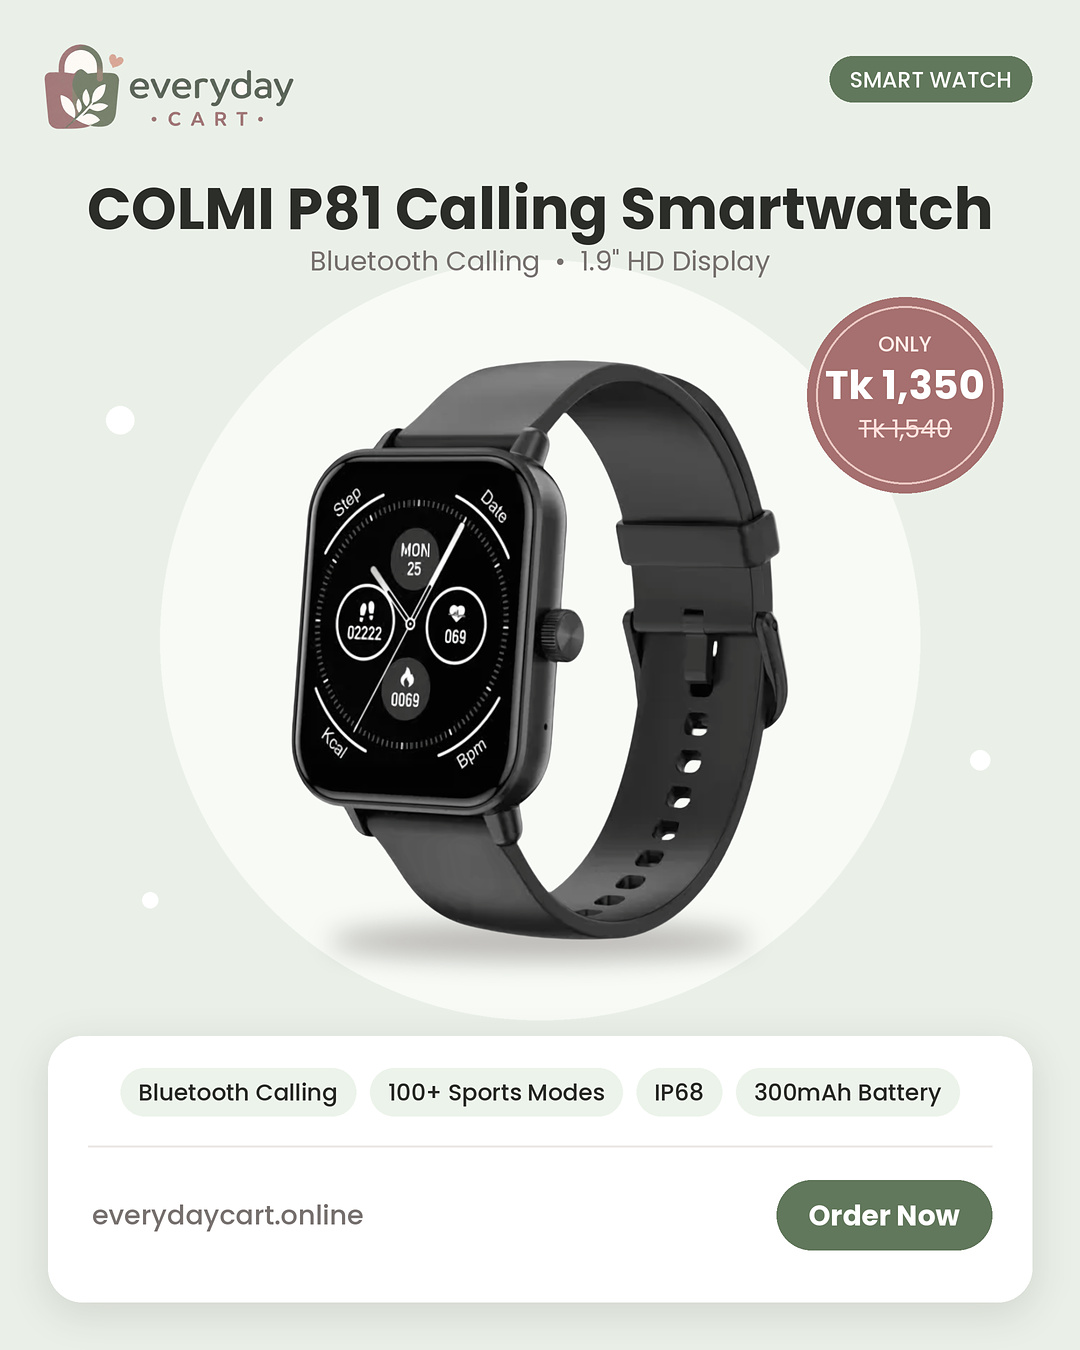
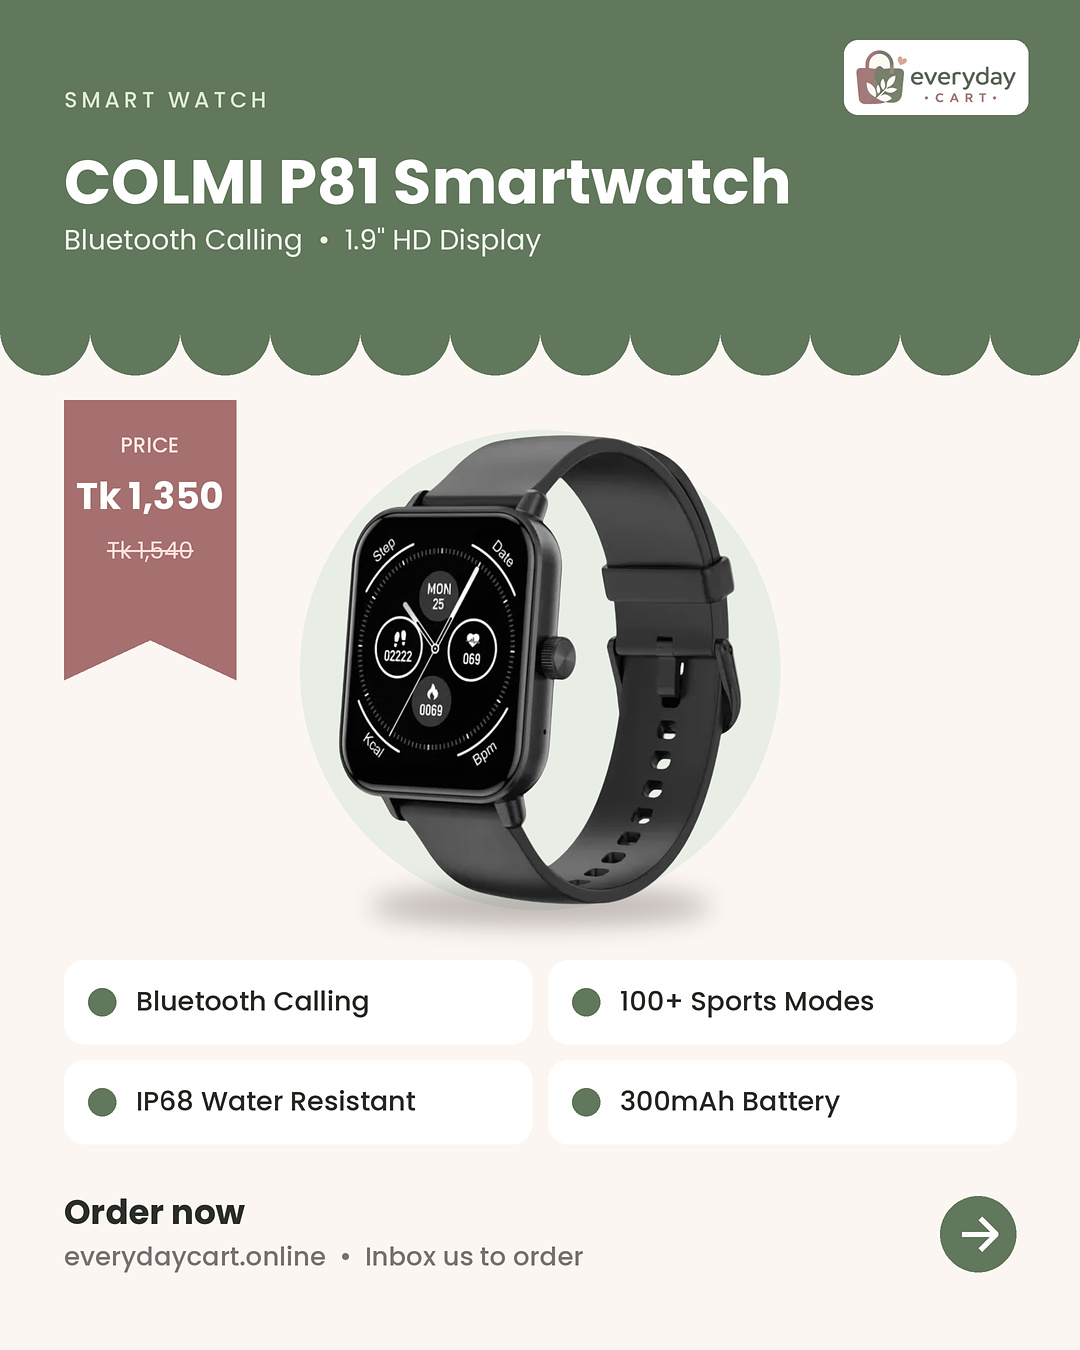
Redesign 2 Nov batch with new style set (arch poster, scalloped header, list menu); add daily style rotation log
Claude-Session: https://claude.ai/code/session_0114xmdKWWLipJqKWxq3u9Ky

diff --git a/tools/render_styles.py b/tools/render_styles.py
@@ -1,0 +1,158 @@
+"""Extra flat post styles so each day's batch looks different (no 3D, small corner logo, brand palette, Poppins).
+
+Style sets (rotate daily, see posts/style_log.json):
+  set 1 = render_flat A/B/C (split panel, colour card, collection grid)
+  set 2 = D/E/F below (arch poster, header ribbon, list menu)
+"""
+import os
+from PIL import Image, ImageDraw
+import render_flat as rf
+from render_flat import P, f, fit, wrap, tk, S, W, H, W0, H0, SAGE, SAGE_L, ROSE, INK, MUTE, CREAM, load_logo
+
+ROSE_D = (138, 88, 88)
+
+
+def spaced(d, xy, text, font, fill, spacing=3):
+    x, y = xy
+    for ch in text:
+        d.text(P(x, y), ch, font=font, fill=fill); x += d.textlength(ch, font=font) / S + spacing
+    return x
+
+
+def spaced_w(d, text, font, spacing=3):
+    return sum(d.textlength(ch, font=font) / S + spacing for ch in text) - spacing
+
+
+def strike(d, x, y, text, font, fill):
+    w = d.textlength(text, font=font) / S
+    d.text(P(x, y), text, font=font, fill=fill)
+    d.line(P(x, y + font.size / S * 0.72, x + w, y + font.size / S * 0.72), fill=fill, width=2 * S)
+    return w
+
+
+# ---------------- Template D: arch poster ----------------
+def template_d(p):
+    bg = p.get("bg", (226, 234, 222)); arch = p.get("arch", CREAM)
+    img = Image.new("RGBA", (W, H), bg + (255,)); d = ImageDraw.Draw(img)
+    lg = load_logo(170); img.alpha_composite(lg, (52 * S, 46 * S)); d = ImageDraw.Draw(img)
+    tf = f("Poppins-Medium.ttf", 21); tw = spaced_w(d, p["tag"], tf, 4)
+    spaced(d, (W0 - 56 - tw, 66), p["tag"], tf, p.get("ink", SAGE), 4)
+    # arch window
+    x0, x1, y0, y1 = 150, 930, 150, 930; r = (x1 - x0) / 2
+    d.rounded_rectangle(P(x0, y0 + r, x1, y1), radius=0, fill=arch)
+    d.pieslice(P(x0, y0, x1, y0 + 2 * r), 180, 360, fill=arch)
+    d.arc(P(x0 - 22, y0 - 22, x1 + 22, y0 + 2 * r + 22), 180, 360, fill=arch, width=3 * S)
+    d.line(P(x0 - 22, y0 + r, x0 - 22, y1), fill=arch, width=3 * S); d.line(P(x1 + 22, y0 + r, x1 + 22, y1), fill=arch, width=3 * S)
+    img = rf.place(img, p["img"], 540, 575, p.get("maxw", 600), p.get("maxh", 560)); d = ImageDraw.Draw(img)
+    # price tag hanging on the arch edge
+    pr = tk(p["price"]); pf = f("Poppins-Bold.ttf", 46); pw = d.textlength(pr, font=pf) / S
+    has_old = p["regular"] > p["price"]
+    bx1 = x1 + 10; bx0 = bx1 - pw - 56; by0 = 830
+    d.rounded_rectangle(P(bx0, by0, bx1, by0 + (118 if has_old else 86)), radius=18 * S, fill=ROSE)
+    d.text(P(bx0 + 28, by0 + 12), pr, font=pf, fill="white")
+    if p.get("label"):
+        lf = f("Poppins-Bold.ttf", 22); lt = p["label"]; lw_ = d.textlength(lt, font=lf) / S
+        d.rounded_rectangle(P(bx0, by0 - 40, bx0 + lw_ + 32, by0 - 4), radius=18 * S, fill=INK)
+        d.text(P(bx0 + 16, by0 - 37), lt, font=lf, fill="white")
+    if has_old:
+        of = f("Poppins-Regular.ttf", 24); o = tk(p["regular"]); ow = d.textlength(o, font=of) / S
+        strike(d, bx0 + 28, by0 + 76, o, of, (255, 222, 218))
+    # title block
+    ft, lines = wrap(d, p["title"], "Poppins-Bold.ttf", 56, 920, 2)
+    y = 985
+    for l in lines:
+        lw_ = d.textlength(l, font=ft) / S; d.text(P(540 - lw_ / 2, y), l, font=ft, fill=INK); y += ft.size / S * 1.12
+    feats = "  •  ".join(p["feats"])
+    ff = fit(d, feats, "Poppins-Regular.ttf", 26, 960); fw = d.textlength(feats, font=ff) / S
+    d.text(P(540 - fw / 2, y + 12), feats, font=ff, fill=MUTE)
+    # footer
+    d.line(P(80, 1218, 1000, 1218), fill=p.get("rule", (200, 210, 196)), width=2 * S)
+    uf = f("Poppins-Medium.ttf", 26); d.text(P(80, 1250), "everydaycart.online", font=uf, fill=INK)
+    bf = f("Poppins-Bold.ttf", 25); bt = "Inbox to order"; bw = d.textlength(bt, font=bf) / S
+    d.rounded_rectangle(P(1000 - bw - 56, 1240, 1000, 1298), radius=29 * S, fill=SAGE)
+    d.text(P(1000 - bw - 28, 1252), bt, font=bf, fill="white")
+    return rf.finish(img, p["out"])
+
+
+# ---------------- Template E: header ribbon + feature tiles ----------------
+def template_e(p):
+    hd = p.get("head", SAGE); bg = p.get("bg", CREAM); tile = p.get("tile", (255, 255, 255))
+    img = Image.new("RGBA", (W, H), bg + (255,)); d = ImageDraw.Draw(img)
+    d.rectangle(P(0, 0, W0, 330), fill=hd)
+    # scalloped bottom edge of the header (flat semicircles)
+    for i in range(12):
+        cx = 45 + i * 90; d.ellipse(P(cx - 45, 285, cx + 45, 375), fill=hd)
+    lg = load_logo(160)
+    d.rounded_rectangle(P(W0 - 52 - lg.width / S - 24, 40, W0 - 52, 40 + lg.height / S + 20), radius=14 * S, fill=(255, 255, 255))
+    img.alpha_composite(lg, (int((W0 - 64 - lg.width / S) * S), 50 * S)); d = ImageDraw.Draw(img)
+    tf = f("Poppins-Medium.ttf", 22); spaced(d, (64, 84), p["tag"], tf, SAGE_L if hd == SAGE else (255, 236, 232), 4)
+    ft = fit(d, p["title"], "Poppins-Bold.ttf", 62, 740); lines = [p["title"]]
+    if ft.size / S < 48: ft, lines = wrap(d, p["title"], "Poppins-Bold.ttf", 50, 740, 2)
+    y = 138 if len(lines) == 1 else 112
+    for l in lines: d.text(P(64, y), l, font=ft, fill="white"); y += ft.size / S * 1.1
+    sf = fit(d, p["sub"], "Poppins-Regular.ttf", 28, 900); d.text(P(64, y + 14), p["sub"], font=sf, fill=(236, 240, 232))
+    # product zone
+    acc = p.get("accent", (238, 232, 228))
+    d.rounded_rectangle(P(300, 430, 780, 910), radius=240 * S, fill=acc)
+    img = rf.place(img, p["img"], 540, 670, p.get("maxw", 560), p.get("maxh", 500)); d = ImageDraw.Draw(img)
+    # vertical price ribbon on the left
+    has_old = p["regular"] > p["price"]
+    d.rectangle(P(64, 400, 236, 640), fill=ROSE)
+    d.polygon([P(64, 640), P(150, 600), P(236, 640), P(236, 680), P(150, 640), P(64, 680)], fill=ROSE)
+    lf = f("Poppins-Medium.ttf", 21); lt = p.get("label", "PRICE"); lw_ = d.textlength(lt, font=lf) / S
+    d.text(P(150 - lw_ / 2, 430), lt, font=lf, fill=(255, 228, 224))
+    pf = fit(d, tk(p["price"]), "Poppins-Bold.ttf", 40, 150); pw = d.textlength(tk(p["price"]), font=pf) / S
+    d.text(P(150 - pw / 2, 470), tk(p["price"]), font=pf, fill="white")
+    if has_old:
+        of = f("Poppins-Regular.ttf", 23); o = tk(p["regular"]); ow = d.textlength(o, font=of) / S
+        strike(d, 150 - ow / 2, 534, o, of, (255, 222, 218))
+    # 2x2 feature tiles
+    for i, t in enumerate(p["feats"][:4]):
+        cx0 = 64 + (i % 2) * 484; cy0 = 960 + (i // 2) * 100
+        d.rounded_rectangle(P(cx0, cy0, cx0 + 468, cy0 + 84), radius=20 * S, fill=tile)
+        d.ellipse(P(cx0 + 24, cy0 + 28, cx0 + 52, cy0 + 56), fill=hd)
+        tf2 = fit(d, t, "Poppins-Medium.ttf", 27, 370); d.text(P(cx0 + 72, cy0 + 22), t, font=tf2, fill=INK)
+    d.text(P(64, 1188), "Order now", font=f("Poppins-Bold.ttf", 34), fill=INK)
+    uf = f("Poppins-Medium.ttf", 26); d.text(P(64, 1238), "everydaycart.online  •  Inbox us to order", font=uf, fill=MUTE)
+    d.ellipse(P(940, 1196, 1016, 1272), fill=hd)
+    d.line([P(962, 1234), P(994, 1234)], fill="white", width=5 * S)
+    d.line([P(980, 1218), P(996, 1234), P(980, 1250)], fill="white", width=5 * S, joint="curve")
+    return rf.finish(img, p["out"])
+
+
+# ---------------- Template F: list menu (collection) ----------------
+def template_f(p):
+    bg = p.get("bg", (244, 236, 232))
+    img = Image.new("RGBA", (W, H), bg + (255,)); d = ImageDraw.Draw(img)
+    lg = load_logo(170); img.alpha_composite(lg, (52 * S, 46 * S)); d = ImageDraw.Draw(img)
+    tf = f("Poppins-Medium.ttf", 21); tw = spaced_w(d, p["tag"], tf, 4)
+    spaced(d, (W0 - 56 - tw, 66), p["tag"], tf, ROSE, 4)
+    ft = fit(d, p["title"], "Poppins-Bold.ttf", 62, 960); d.text(P(60, 150), p["title"], font=ft, fill=INK)
+    sf = fit(d, p["sub"], "Poppins-Regular.ttf", 27, 960); d.text(P(60, 232), p["sub"], font=sf, fill=MUTE)
+    rh, gap, y = 196, 20, 296
+    for i, it in enumerate(p["items"]):
+        box = (60, y, 1020, y + rh)
+        img = rf.card_shadow(img, box, 28, alpha=26, blur=12, dy=6); d = ImageDraw.Draw(img)
+        d.rounded_rectangle(P(*box), radius=28 * S, fill="white")
+        acc = it.get("accent", (240, 234, 230))
+        d.rounded_rectangle(P(78, y + 18, 78 + 220, y + rh - 18), radius=22 * S, fill=acc)
+        img = rf.place(img, it["img"], 188, y + rh / 2, 190, 150, floor=False); d = ImageDraw.Draw(img)
+        d.text(P(330, y + 40), f"0{i + 1}", font=f("Poppins-Medium.ttf", 22), fill=ROSE)
+        nf = fit(d, it["name"], "Poppins-Bold.ttf", 34, 420); d.text(P(330, y + 70), it["name"], font=nf, fill=INK)
+        if it.get("note"):
+            d.text(P(330, y + 120), it["note"], font=fit(d, it["note"], "Poppins-Regular.ttf", 23, 420), fill=MUTE)
+        pf = f("Poppins-Bold.ttf", 38); pt = tk(it["price"]); pw = d.textlength(pt, font=pf) / S
+        d.text(P(992 - pw, y + 56), pt, font=pf, fill=ROSE)
+        if it["regular"] > it["price"]:
+            of = f("Poppins-Regular.ttf", 23); o = tk(it["regular"]); ow = d.textlength(o, font=of) / S
+            strike(d, 992 - ow, y + 112, o, of, MUTE)
+        y += rh + gap
+    d.rounded_rectangle(P(60, 1196, 1020, 1300), radius=52 * S, fill=SAGE)
+    bf = f("Poppins-Bold.ttf", 31); bt = "Order at everydaycart.online"; bw = d.textlength(bt, font=bf) / S
+    d.text(P(540 - bw / 2, 1210), bt, font=bf, fill="white")
+    lf = f("Poppins-Medium.ttf", 22); lt = p.get("foot", "Limited stock  •  Inbox us to order"); lw_ = d.textlength(lt, font=lf) / S
+    d.text(P(540 - lw_ / 2, 1256), lt, font=lf, fill=SAGE_L)
+    return rf.finish(img, p["out"])
+
+
+TEMPLATES = {"A": rf.template_a, "B": rf.template_b, "C": rf.template_c, "D": template_d, "E": template_e, "F": template_f}

diff --git a/tools/batch_2026_11_02.py b/tools/batch_2026_11_02.py
@@ -1,38 +1,38 @@
-"""Everyday Cart daily batch, 2 Nov 2026 (render_flat templates)."""
+"""Everyday Cart daily batch, 2 Nov 2026. Style set 2 (D arch poster, E header ribbon, F list menu)."""
 import os, sys
 import render_flat as rf
-from render_flat import template_a, template_b, template_c, im, HQ
+from render_flat import im, HQ
+from render_styles import TEMPLATES
 rf.OUTDIR = os.path.abspath(os.path.join(os.path.dirname(__file__), "..", "posts", "batch-2026-11-02")) + "/"
 os.makedirs(rf.OUTDIR, exist_ok=True)
 
 POSTS = [
-    ("A", dict(out="01_oraimo_spacebox_speaker", img=HQ + "01.png", tag="SPEAKER", title="Oraimo SpaceBox Speaker",
-               sub="Official  •  Portable Bluetooth", feats=["Personalized Light Show", "Thumping Bass", "8W Audio Output", "1800mAh Battery"],
-               price=1841, regular=2299, accent=(230, 236, 242))),
-    ("B", dict(out="02_colmi_p81_smartwatch", img=HQ + "09.png", tag="SMART WATCH", title="COLMI P81 Calling Smartwatch",
-               sub="Bluetooth Calling  •  1.9\" HD Display", feats=["Bluetooth Calling", "100+ Sports Modes", "IP68", "300mAh Battery"],
-               price=1350, regular=1540, bg=(234, 240, 232), circle=(247, 250, 245), chip=(236, 243, 234), maxw=520, maxh=580)),
-    ("C", dict(out="03_earbuds_neckband_lineup", tag="AUDIO", title="Earbuds & Neckband Lineup", sub="Official Awei & Oraimo  •  Best prices in Dhaka",
-               items=[dict(img=HQ + "11.png", name="Awei T88 Earbuds", price=990, regular=1450),
-                      dict(img=HQ + "10.png", name="Awei T108 Earbuds", price=950, regular=1199),
-                      dict(img=HQ + "13.png", name="Oraimo SpaceBuds Lite", price=1310, regular=1496),
-                      dict(img=HQ + "04.png", name="Oraimo Necklace Lite", price=1300, regular=1485)],
-               accent=(236, 242, 233))),
-    ("A", dict(out="04_22in_big_teddy_bear", img=HQ + "06.png", tag="GIFT", title="22\" Big Teddy Bear",
-               sub="Super Soft Premium Plush", feats=["22 Inch Big Size", "Super Soft Plush", "Perfect Gift", "Cute Room Decor"],
-               price=1150, regular=2000, accent=(246, 230, 232))),
-    ("B", dict(out="05_awei_ka5_speaker", img=HQ + "14.png", tag="SPEAKER", title="Awei KA5 20W Speaker",
-               sub="Stereo Sound  •  IPX5 Waterproof", feats=["10W x 2 Output", "Bluetooth 5.3", "Up to 8 Hrs Play", "IPX5"],
-               price=2525, regular=2849, bg=(244, 240, 226), circle=(252, 250, 242), chip=(246, 242, 230), maxw=420, maxh=600, badge=(880, 400))),
-    ("A", dict(out="06_forkan_trolley_luggage", img=HQ + "05.png", tag="TRAVEL", title="Forkan Trolley Luggage",
-               sub="Hard Shell  •  20\" & 24\" Sizes", feats=["Durable Hard Shell", "360° Spinner Wheels", "Spacious Interior", "Lightweight"],
-               label="FROM", price=4000, regular=5500, accent=(246, 230, 228))),
-    ("B", dict(out="07_silent_alarm_clock", img=HQ + "07.png", tag="HOME", title="Silent Alarm Clock",
+    ("D", dict(out="01_oraimo_spacebox_speaker", img=HQ + "01.png", tag="SPEAKER", title="Oraimo SpaceBox Speaker",
+               feats=["Light Show", "Thumping Bass", "8W Output", "1800mAh"], price=1841, regular=2299,
+               bg=(226, 232, 238), rule=(196, 206, 216), maxw=640, maxh=420)),
+    ("E", dict(out="02_colmi_p81_smartwatch", img=HQ + "09.png", tag="SMART WATCH", title="COLMI P81 Smartwatch",
+               sub="Bluetooth Calling  •  1.9\" HD Display", feats=["Bluetooth Calling", "100+ Sports Modes", "IP68 Water Resistant", "300mAh Battery"],
+               price=1350, regular=1540, accent=(232, 238, 229), maxw=440, maxh=470)),
+    ("F", dict(out="03_earbuds_neckband_lineup", tag="AUDIO", title="Earbuds & Neckband Lineup", sub="Official Awei & Oraimo  •  Best prices in Dhaka",
+               items=[dict(img=HQ + "11.png", name="Awei T88 Earbuds", note="ANC Support  •  IPX6", price=990, regular=1450, accent=(236, 242, 233)),
+                      dict(img=HQ + "10.png", name="Awei T108 Earbuds", note="Wireless  •  Bluetooth", price=950, regular=1199, accent=(232, 238, 244)),
+                      dict(img=HQ + "13.png", name="Oraimo SpaceBuds Lite", note="Official Oraimo", price=1310, regular=1496, accent=(246, 236, 232)),
+                      dict(img=HQ + "04.png", name="Oraimo Necklace Lite", note="ENC Neckband", price=1300, regular=1485, accent=(240, 236, 246))])),
+    ("D", dict(out="04_22in_big_teddy_bear", img=HQ + "06.png", tag="GIFT IDEA", title="22\" Big Teddy Bear",
+               feats=["22 Inch", "Super Soft Plush", "Perfect Gift"], price=1150, regular=2000,
+               bg=(244, 226, 228), rule=(226, 200, 202), ink=ROSE if False else (165, 112, 111), maxw=560, maxh=580)),
+    ("E", dict(out="05_awei_ka5_speaker", img=HQ + "14.png", tag="SPEAKER", title="Awei KA5 20W Speaker",
+               sub="Stereo Sound  •  IPX5 Waterproof", feats=["10W x 2 Output", "Bluetooth 5.3", "Up to 8 Hrs Play", "IPX5 Waterproof"],
+               price=2525, regular=2849, head=(165, 112, 111), accent=(246, 240, 226), maxw=340, maxh=480)),
+    ("D", dict(out="06_forkan_trolley_luggage", img=HQ + "05.png", tag="TRAVEL", title="Forkan Trolley Luggage",
+               feats=["Hard Shell", "360° Wheels", "20\" & 24\""], price=4000, regular=5500, label="FROM",
+               bg=(222, 232, 222), rule=(196, 210, 194), maxw=420, maxh=600)),
+    ("E", dict(out="07_silent_alarm_clock", img=HQ + "07.png", tag="HOME", title="Silent Alarm Clock",
                sub="Non-Ticking  •  Quartz Movement", feats=["No Ticking Sound", "Precise Quartz", "Classic Twin Bell", "Bedside Decor"],
-               price=500, regular=800, bg=(242, 234, 226), circle=(251, 247, 242), chip=(245, 238, 231), maxw=520, maxh=580)),
-    ("B", dict(out="08_proove_intro_pro_earbuds", img=HQ + "03.png", tag="EARBUDS", title="Proove Intro Pro Earbuds",
-               sub="Official  •  LED Display Charging Case", feats=["13mm Driver", "Clear Calls (ENC)", "Bluetooth 5.4", "Touch Control"],
-               price=2300, regular=2300, bg=(236, 238, 242), circle=(248, 249, 251), chip=(238, 240, 244), maxw=520, maxh=580)),
+               price=500, regular=800, accent=(244, 234, 226), maxw=420, maxh=470)),
+    ("D", dict(out="08_proove_intro_pro_earbuds", img=HQ + "03.png", tag="EARBUDS", title="Proove Intro Pro Earbuds",
+               feats=["13mm Driver", "ENC Clear Calls", "Bluetooth 5.4"], price=2300, regular=2300,
+               bg=(232, 230, 238), rule=(206, 204, 216), maxw=500, maxh=560)),
 ]
 
 if __name__ == "__main__":
@@ -41,4 +41,4 @@ if __name__ == "__main__":
         if keys and p["out"][:2] not in keys: continue
         if "img" in p: p["img"] = im(p["img"])
         for it in p.get("items", []): it["img"] = im(it["img"])
-        {"A": template_a, "B": template_b, "C": template_c}[kind](p)
+        TEMPLATES[kind](p)

diff --git a/tools/README.md b/tools/README.md
@@ -3,6 +3,8 @@
 Scripts used to make Everyday Cart social posts. Output goes to /mnt/user-data/outputs/.
 
 - `render_flat.py`: flat post templates A (split panel), B (colour card), C (collection grid). Edit POSTS, run with post numbers.
+- `render_styles.py`: extra styles D (arch poster), E (scalloped header + feature tiles), F (list menu); `TEMPLATES` maps A to F.
+- Daily batches (`batch_YYYY_MM_DD.py`) must use a DIFFERENT style set from the previous day. Check and update `posts/style_log.json`.
 - `render_carousel.py`: 7-card square carousel.
 - `render_video.py` + `make_music.py`: 1080x1920 Reels with original synthesized music (mux with ffmpeg).
 - `prep_hq.py`: high-quality product cutouts (rembg isnet-general-use, EDSR upscaling for small photos, edge cleanup).
